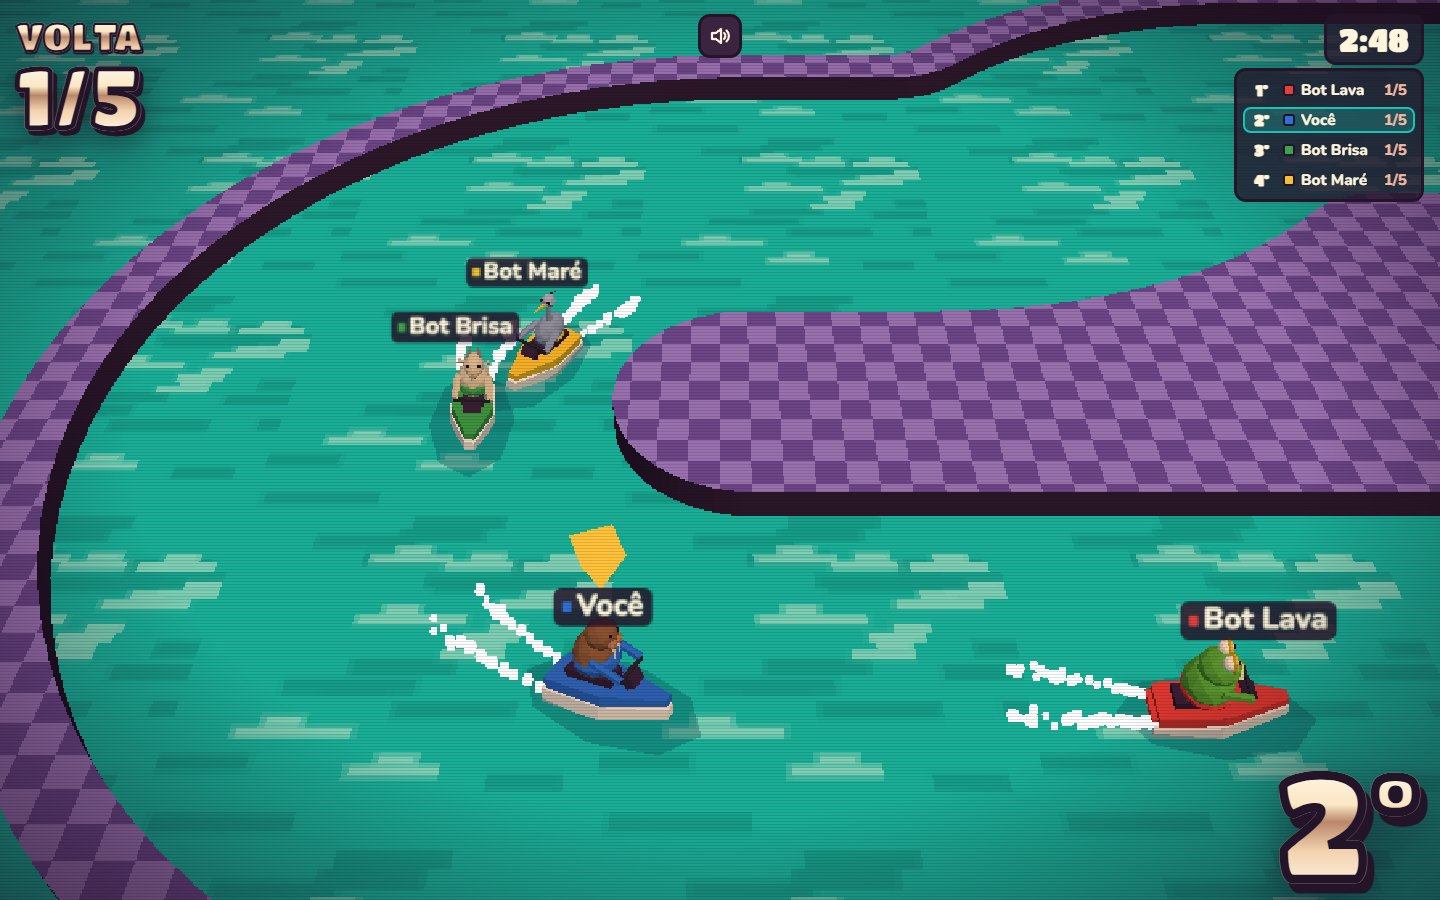
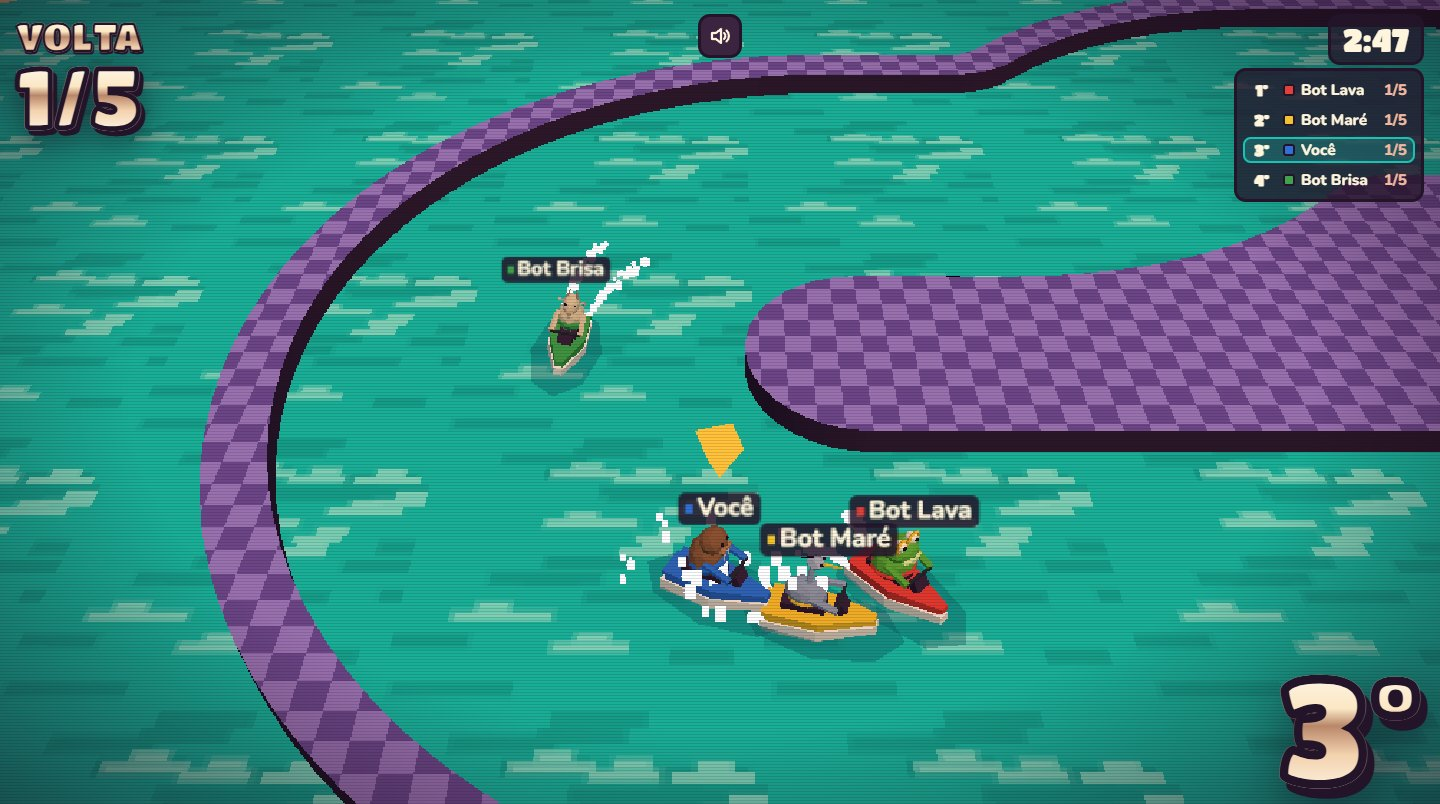
README: match image pairs' proportions, phone shot on its own row

diff --git a/README.md b/README.md
@@ -5,9 +5,11 @@ An online jet-ski race for up to 4 friends, played in the browser. Four animal r
 ![Four animal racers on jet-skis cornering around the checkered center wall of the pool, with the lap counter, timer, standings and position on the HUD](.github/readme/race.gif)
 
 <p>
+  <img src=".github/readme/title.jpg" width="49%" alt="Title screen: the chrome Bicho d'Água logo over the pool, a name field, Criar sala and a room-code field">
   <img src=".github/readme/lobby.jpg" width="49%" alt="Lobby: room code, empty slots that become bots, the Quick Play and Grand Prix modes, and the four racers: Morsa, Garça, Sapo and Cabra">
-  <img src=".github/readme/phone.jpg" width="49%" alt="The race on a phone held sideways, with on-screen steering, brake and accelerate buttons">
 </p>
+
+![The race on a phone held sideways, with on-screen steering, brake and accelerate buttons](.github/readme/phone.jpg)
 
 > The game's interface is in Brazilian Portuguese. The server runs on Render's free plan, so the first visit after a quiet spell takes about a minute to wake it up.
 
@@ -21,7 +23,7 @@ Party games always had that one minigame everyone asked for again: a short water
 
 <p>
   <img src="docs/keyvisuals/03-lowpoly-anos-90.jpg" width="49%" alt="Key visual 3: animal racers on jet-skis in a volcano crater, with lava falls, a stone whale and a chrome HUD">
-  <img src=".github/readme/race.jpg" width="49%" alt="The same direction in the shipped game: the pool from above, the chrome lap counter and the big position number">
+  <img src=".github/readme/race.jpg" width="49%" alt="The same direction in the shipped game: the pack bunched up on a corner, the chrome lap counter and the big position number">
 </p>
 
 <sub>Left: the key visual. Right: the game. The other five directions are in [docs/keyvisuals](docs/keyvisuals/README.md).</sub>
